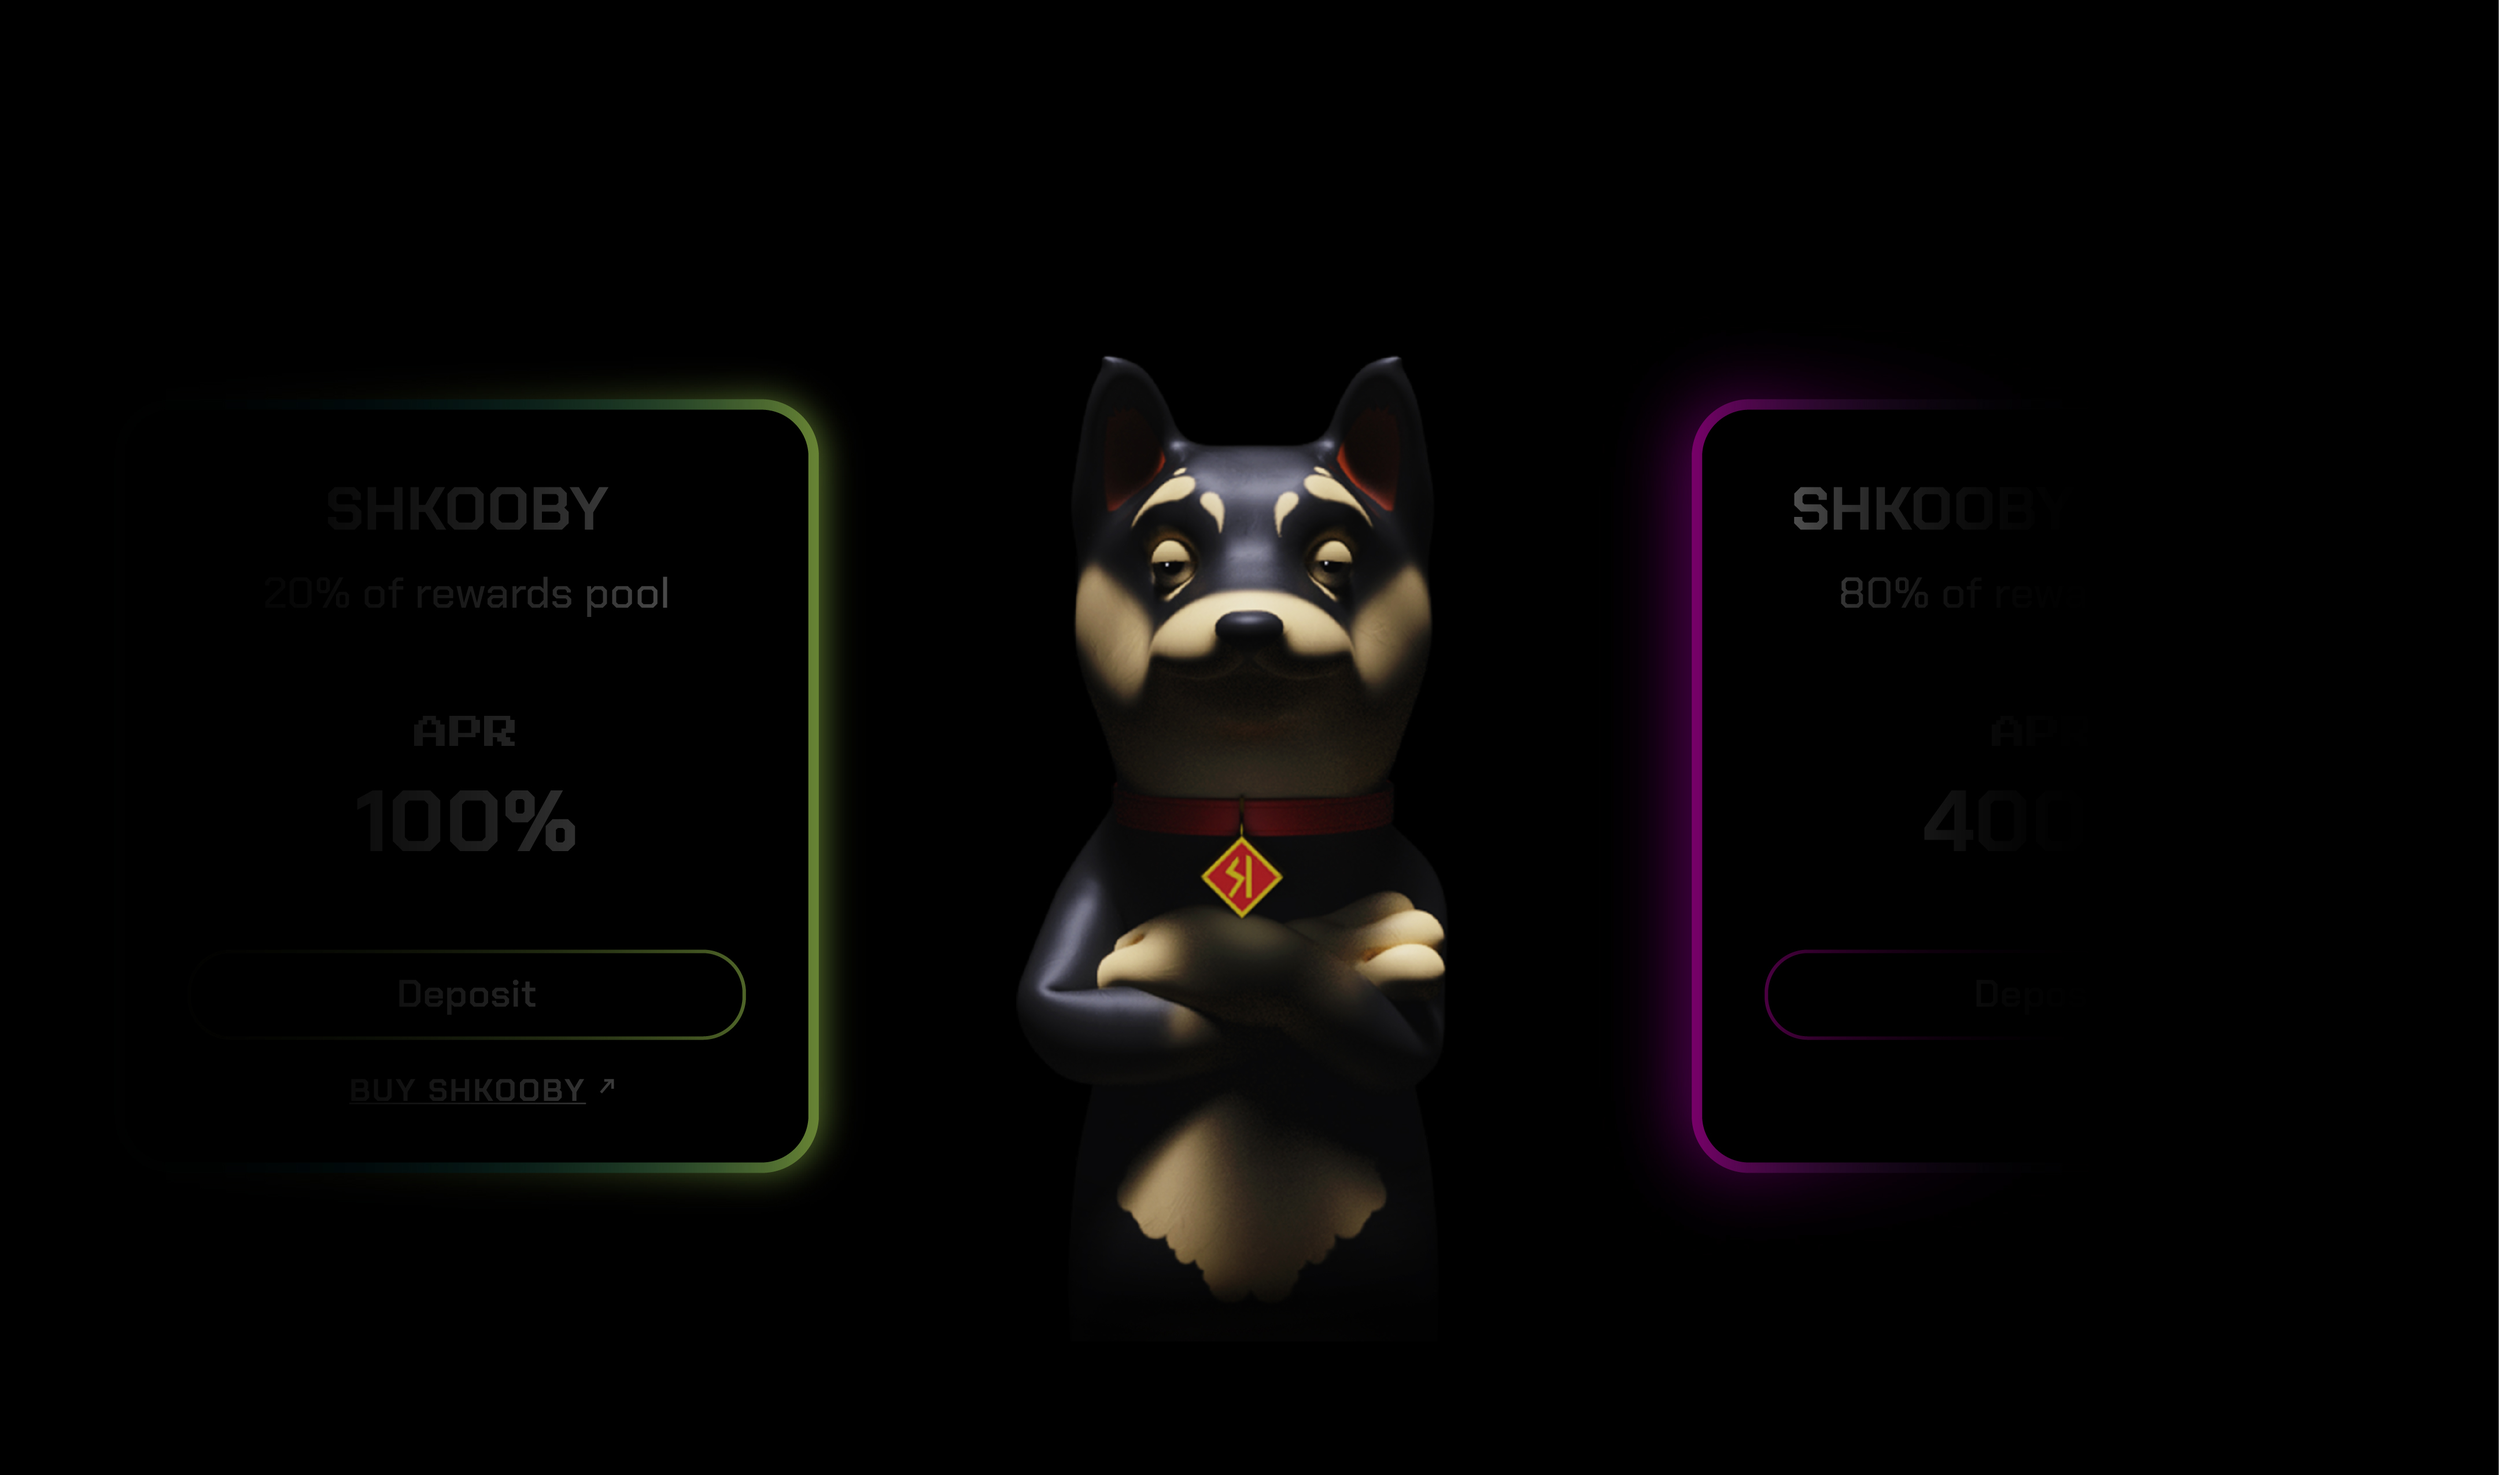
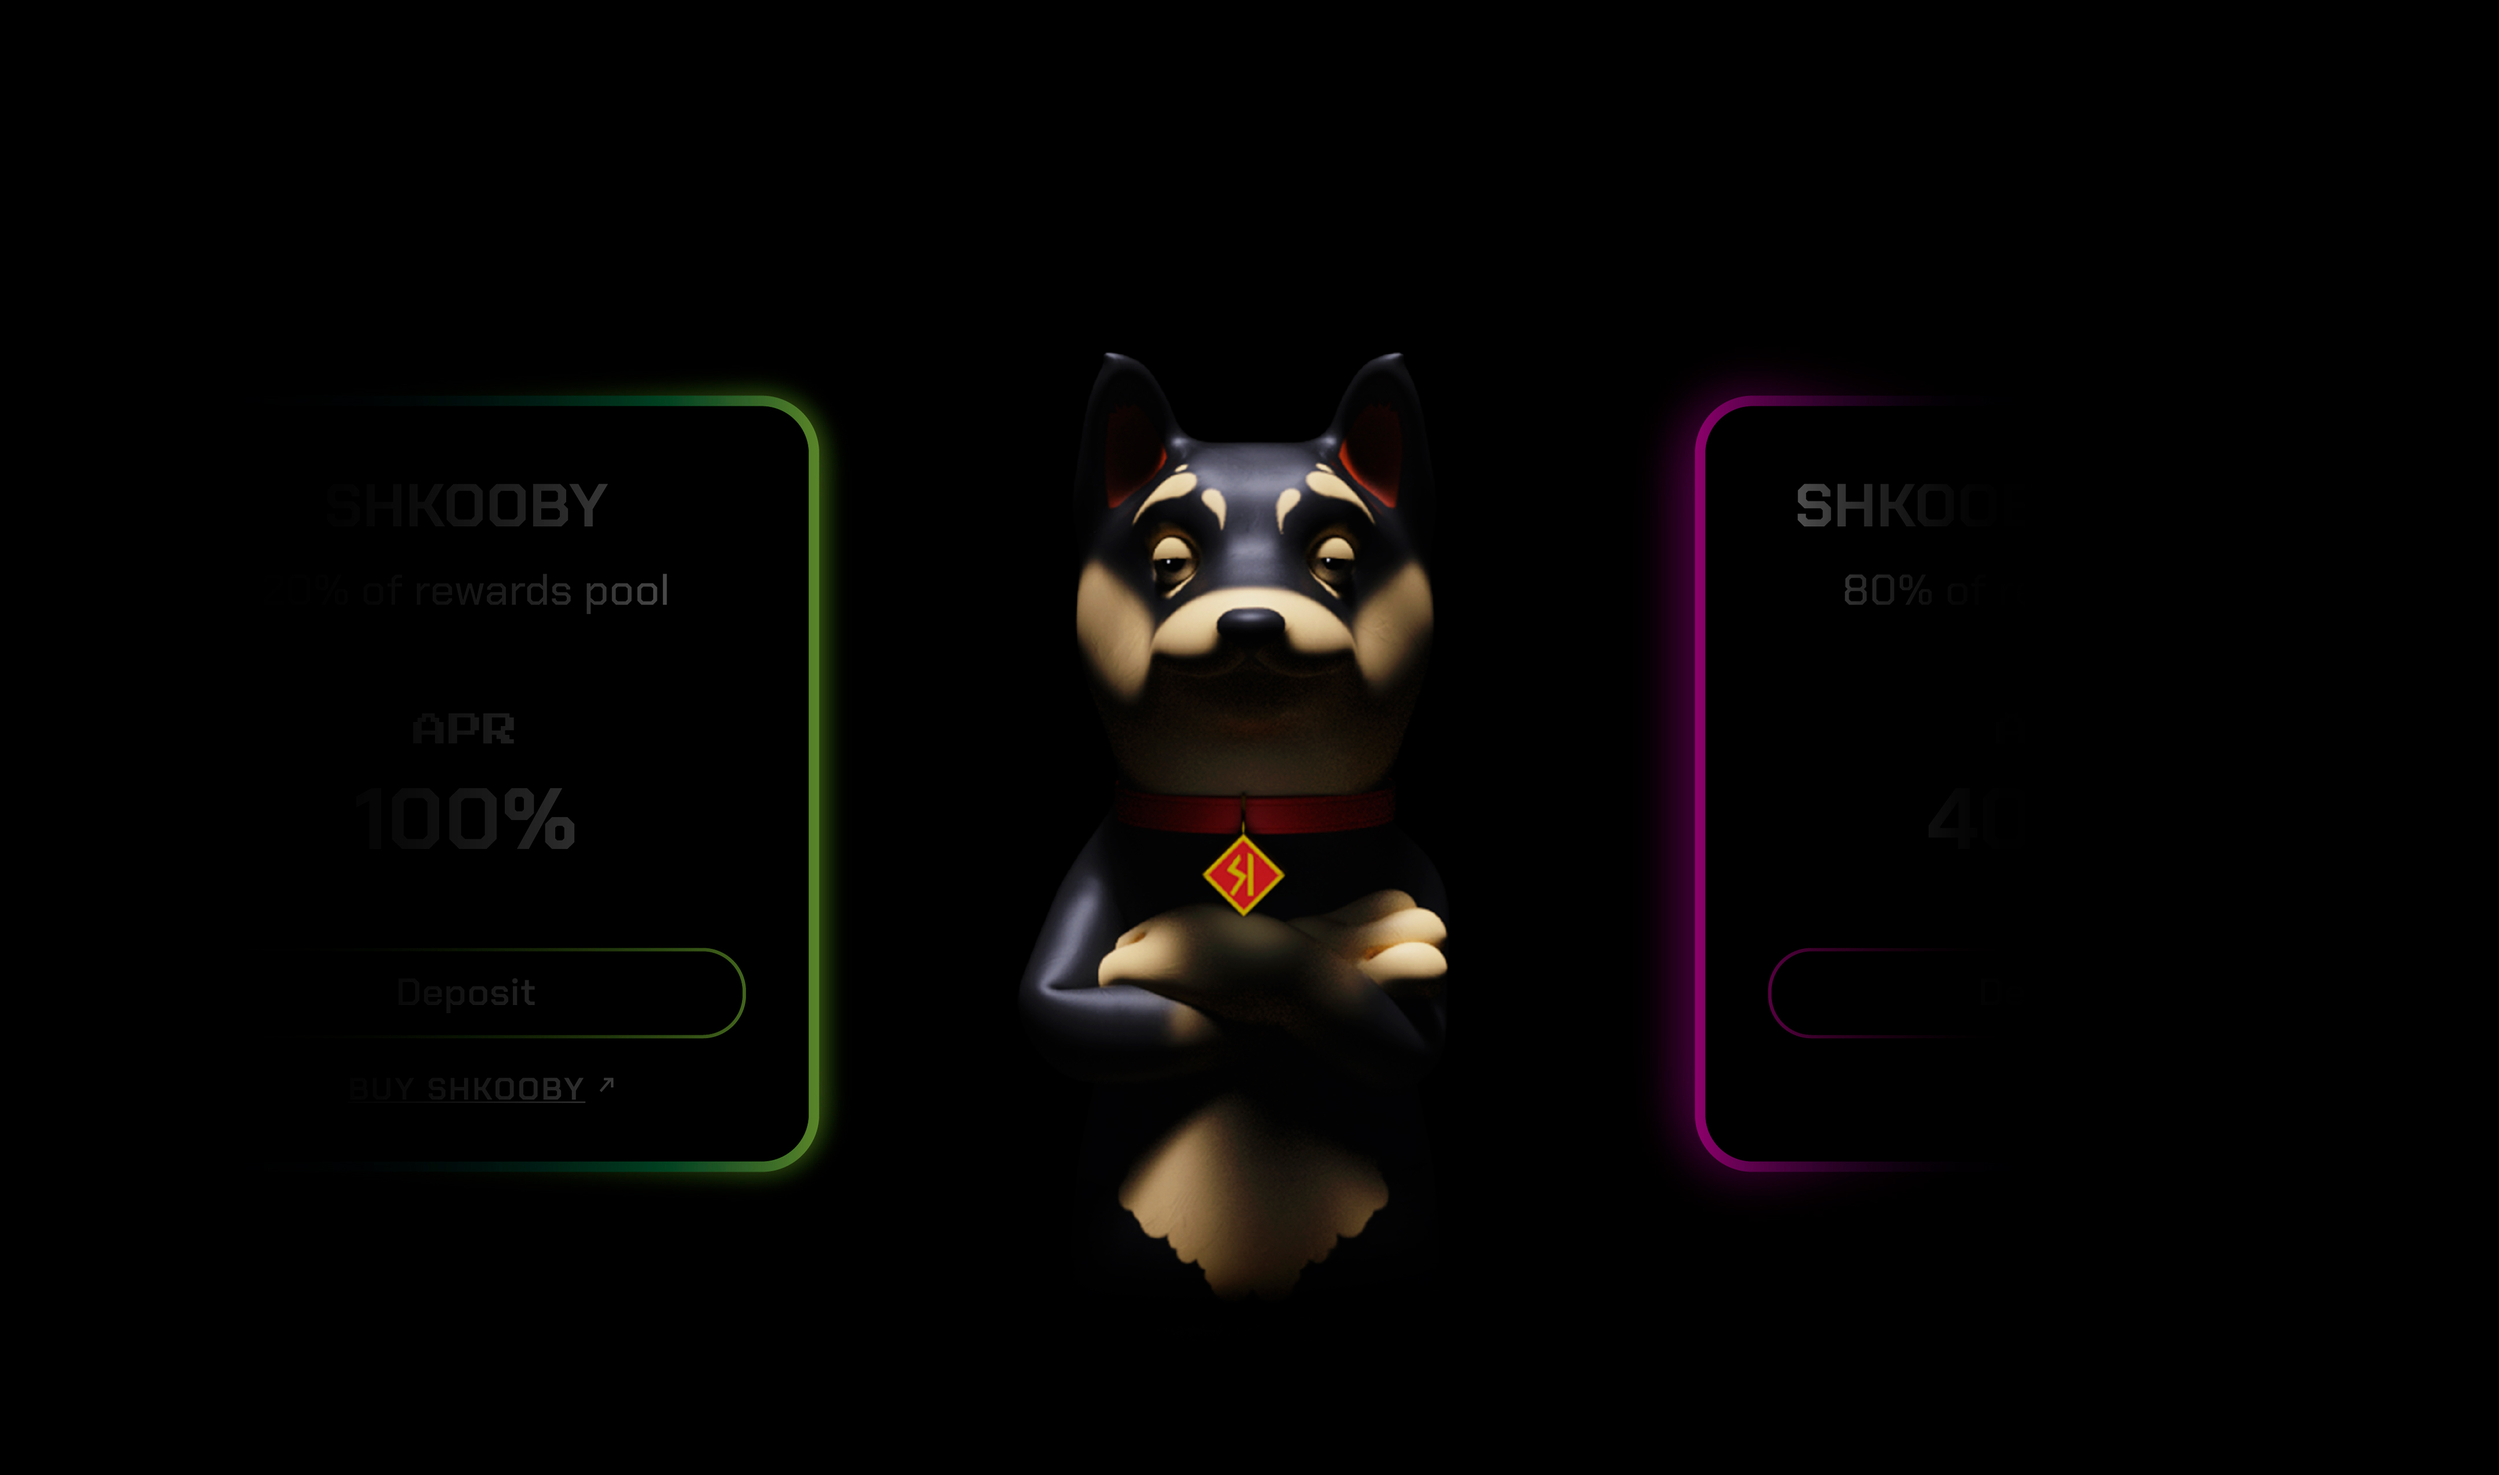
update overall design

diff --git a/app/src/investement.css b/app/src/investement.css
@@ -8,8 +8,8 @@
     }
 
     #investment-content {
-        height: calc(100vh - 325px);
-        background-size: 70%;
+        height: 100vh;
+        background-size: 85%;
         background-position: center;
         background-repeat: no-repeat;
         position: relative;
@@ -28,7 +28,7 @@
     }
 
     .top-content h1, , .top-content a {
-        font-family: "Chakra Regular";
+        font-family: 'Press Start';
         font-weight: 400;
     }
 

diff --git a/app/src/components/dashboard.jsx b/app/src/components/dashboard.jsx
@@ -279,7 +279,7 @@ const Dashboard = () => {
                         </div>
                     </Account>
                     <Logbook />
-                    <ModalStake />
+                    {/*<ModalStake />*/}
                 </Grid>
             </Container>
         </>

diff --git a/app/src/index.css b/app/src/index.css
@@ -82,8 +82,6 @@
   src: url('assets/fonts/ArchivoBlack-Regular.ttf') format('truetype');
 }
 
-
-
 /* layouts */
 
 @media screen and (min-width: 1440px) and (max-height: 900px) {
